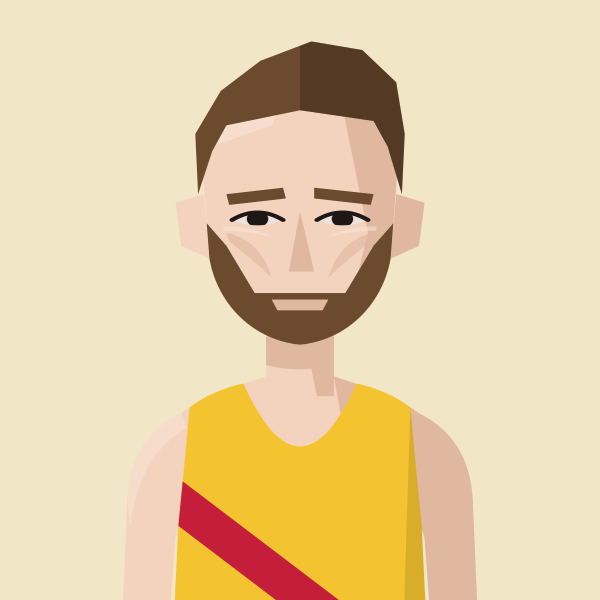
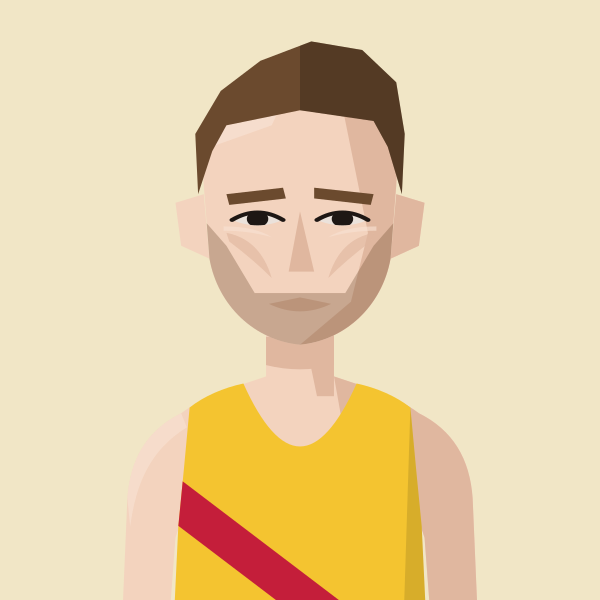
Fred Slemeck: stubble instead of beard
Claude-Session: https://claude.ai/code/session_01MgmDWhFqnSSnP4iBLKXUZC

Changed region(s): [[0.33, 0.36, 0.66, 0.6]]

diff --git a/files/index.html b/files/index.html
@@ -583,7 +583,7 @@ return m;})();
 const portraitFile=(name,club)=>{const k=normalizeNameForCompare(name||'').replace(/\s*\(([^)]*)\)$/,(m,c)=>CLUBS[c.toUpperCase()]?'':m);const a=PORTRAITS[k];if(a&&a.club===club)return a.file;const b=PORTRAITS[k+'@'+club];return b?b.file:null;};
 // Athlete header figure: superstar portrait if we have one, else a grey runner in the club vest, else the plain vest icon
 // Changes whenever any portrait changes (set by tools/build_og.py), so browsers fetch fresh images instead of old cached ones
-const PORTRAIT_V='3dfe472c';
+const PORTRAIT_V='118568c0';
 const AthletePortrait=({name,club,w,fill,onClick})=>{const[failed,setFailed]=useState(false);const file=portraitFile(name,club);const src=file?`/portraits/athletes/${file}.svg?v=${PORTRAIT_V}`:PORTRAIT_CLUBS.has(club)?`/portraits/clubs/${club.replace(/\//g,'').replace(/&/g,'and')}.svg?v=${PORTRAIT_V}`:null;if(!src||failed)return<div onClick={onClick} className={onClick?'cursor-pointer':''}><ClubShield club={club} size={w}/></div>;const h=Math.round(w*148/126),ih=Math.round(w*1.4);if(fill)return<div onClick={onClick} className="cursor-pointer" style={{alignSelf:'stretch',minHeight:h,aspectRatio:'126 / 148',flexShrink:0,position:'relative',borderRadius:4,overflow:'hidden'}}><img src={src} alt={file?`Portrait of ${name.replace(/\s*\([^)]*\)$/,'')}`:`Runner in ${CLUBS[club]?.name||club} vest`} style={{position:'absolute',top:0,left:0,display:'block',width:'100%',height:'auto'}} onError={()=>setFailed(true)}/></div>;return<div style={{width:w,height:h,borderRadius:4,overflow:'hidden',flexShrink:0}}><img src={src} alt={file?`Portrait of ${name.replace(/\s*\([^)]*\)$/,'')}`:`Runner in ${CLUBS[club]?.name||club} vest`} width={w} height={ih} style={{display:'block',width:w,height:ih}} onError={()=>setFailed(true)}/></div>;};
 const getClubVestSvg=(club)=>{
   const p="M3 0 L6 0 Q7 4 10 5 Q13 4 14 0 L17 0 L17 20 L3 20 Z";

diff --git a/tools/gen_portraits.py b/tools/gen_portraits.py
@@ -453,7 +453,7 @@ save("scott", figure("BEL", skin=2, hair="tousled", hair_colour="dark brown", fa
 save("mitchell", figure("BEL", skin=1, hair="quiff", hair_colour="ginger"))
 save("evans", figure("BEL", skin=1, hair="crop", hair_colour="#A8703F"))
 save("roberts", figure("HHH", skin=1, hair="messyvolume", hair_colour="#F1E7BE", brow_colour="#3A2A20", thin_brows=True, mud=True))
-save("slemeck", figure("H/W", skin=1, hair="quiff", hair_colour="mid brown", facial="beard", gaunt=True))
+save("slemeck", figure("H/W", skin=1, hair="quiff", hair_colour="mid brown", facial="stubble", gaunt=True))
 save("edgar", figure("BEL", skin=1, hair="buzzrecede", hair_colour="light brown", facial="moustache", shades=True))
 save("sommerville", figure("BEL", skin=1, hair="tuftrecede", hair_colour="dark brown"))
 save("mcdowell", figure("H/W", skin=1, hair=None))
